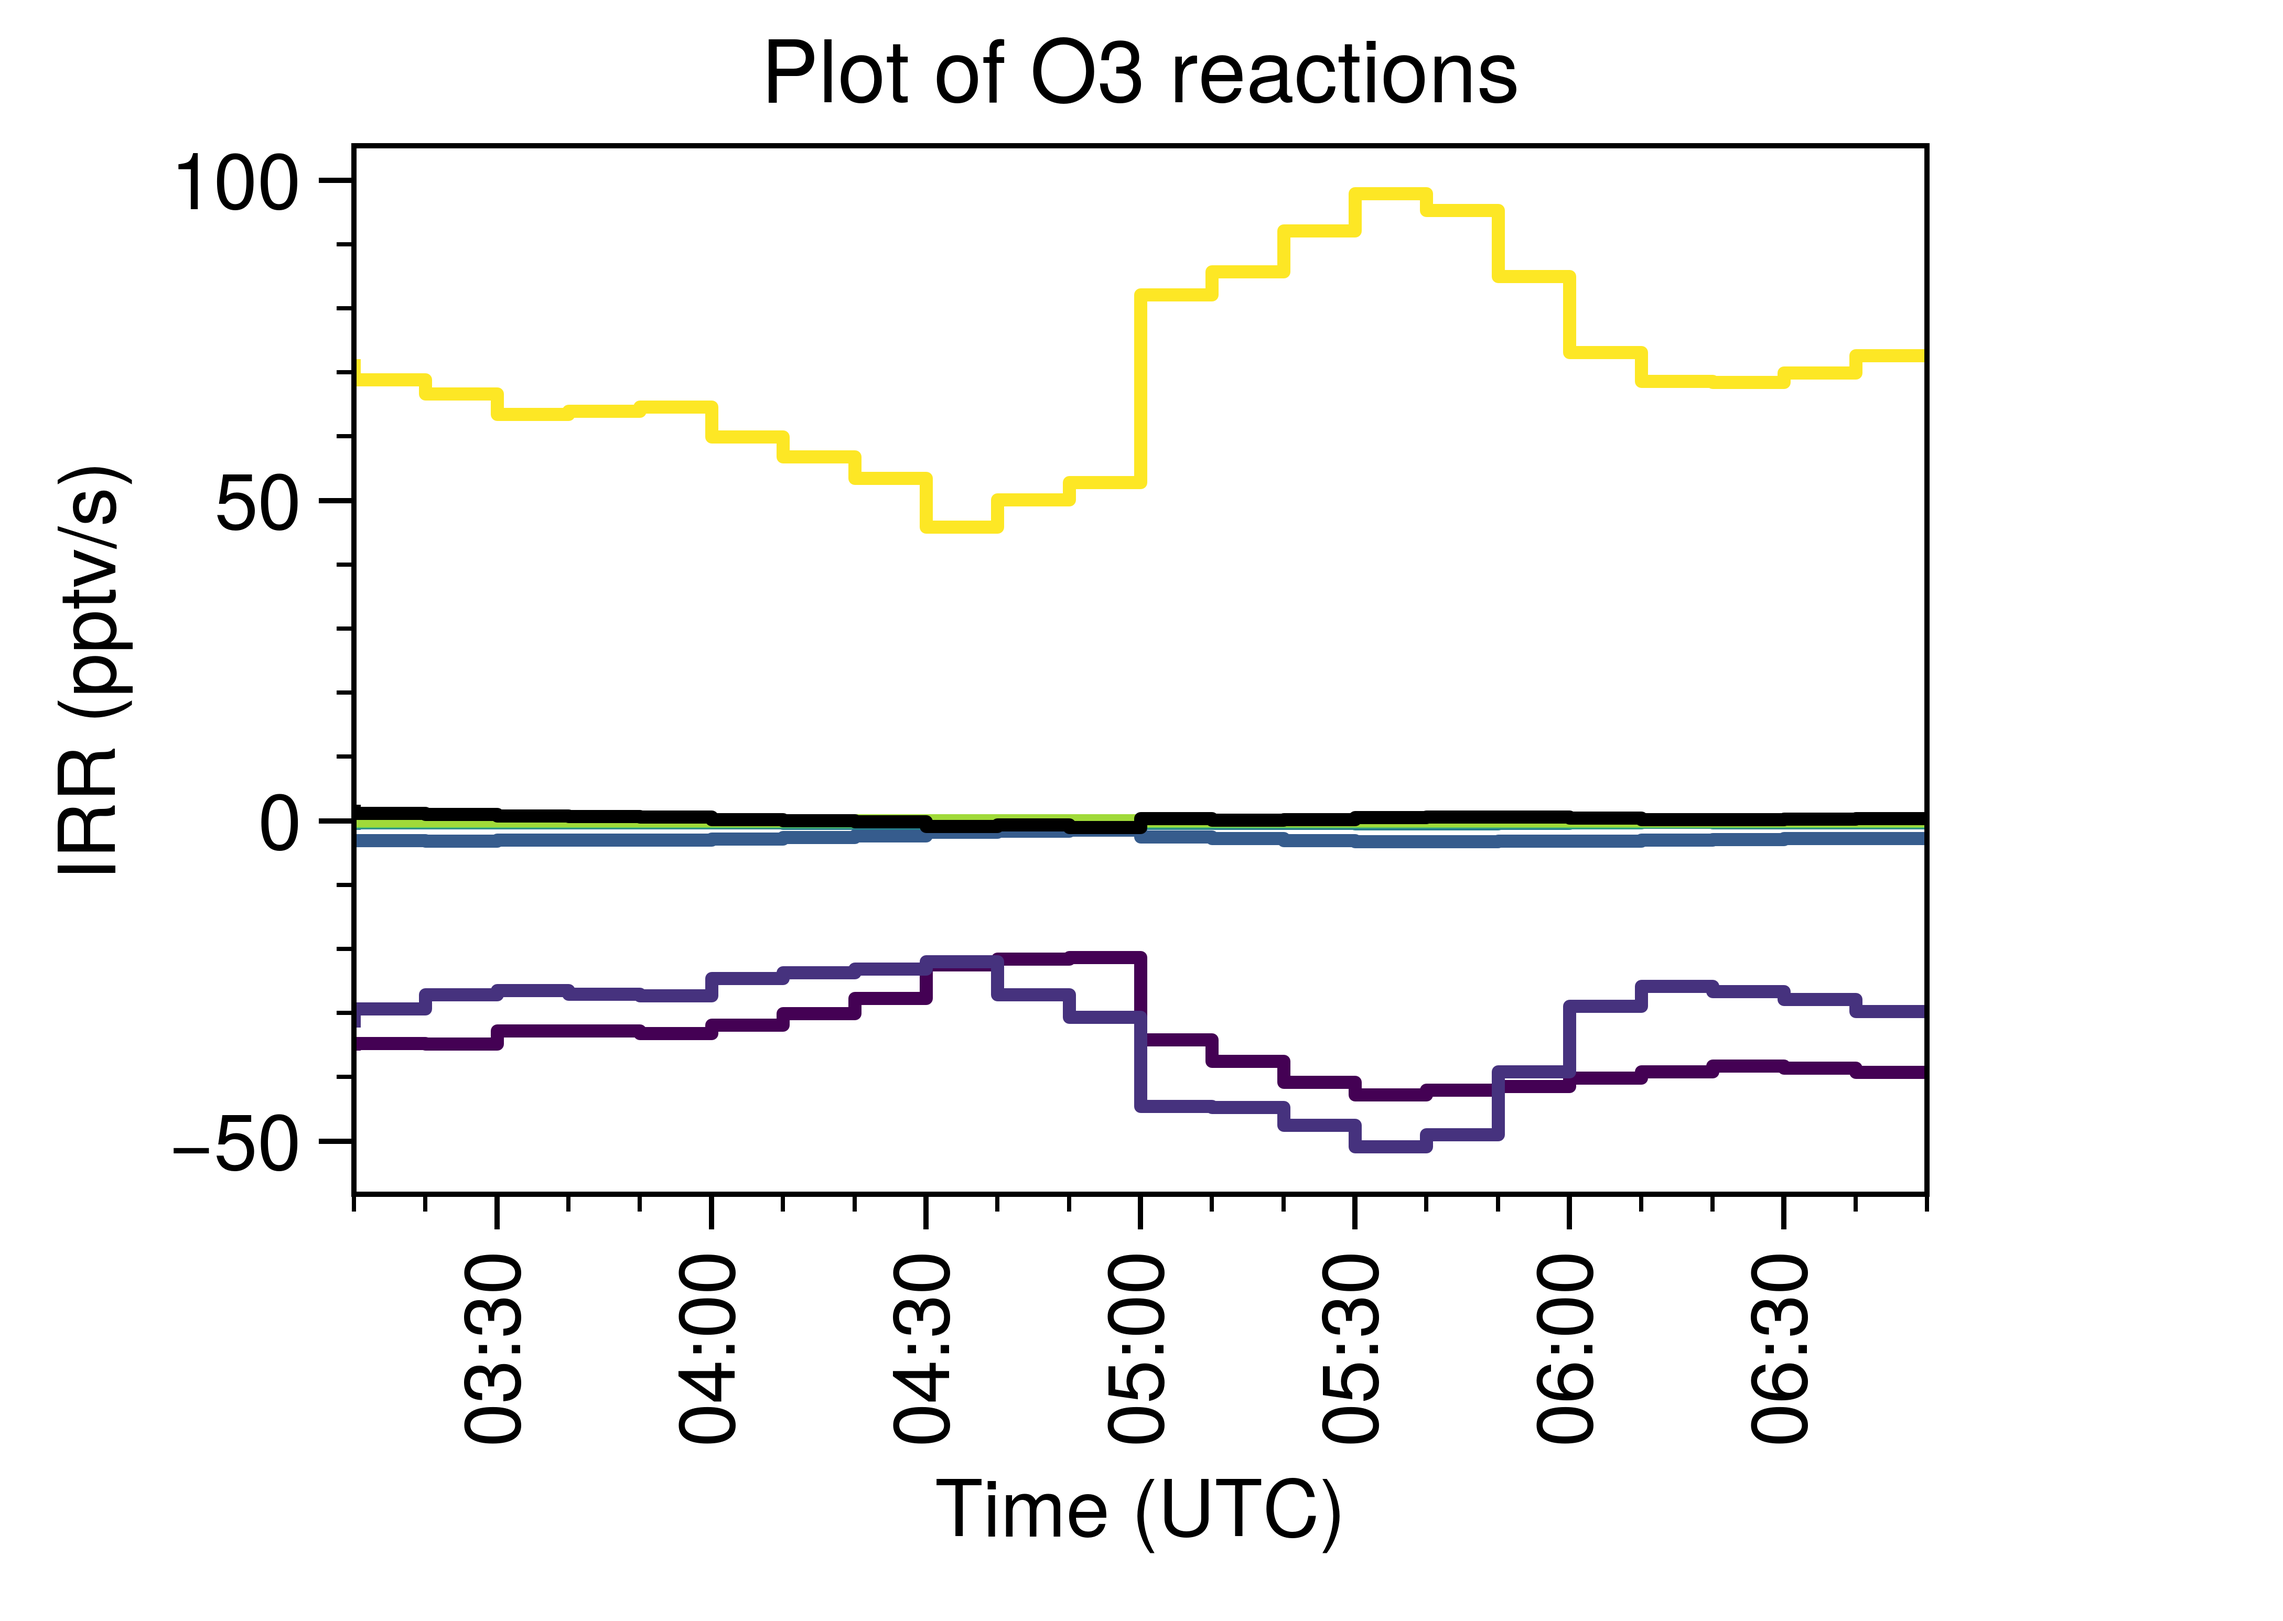
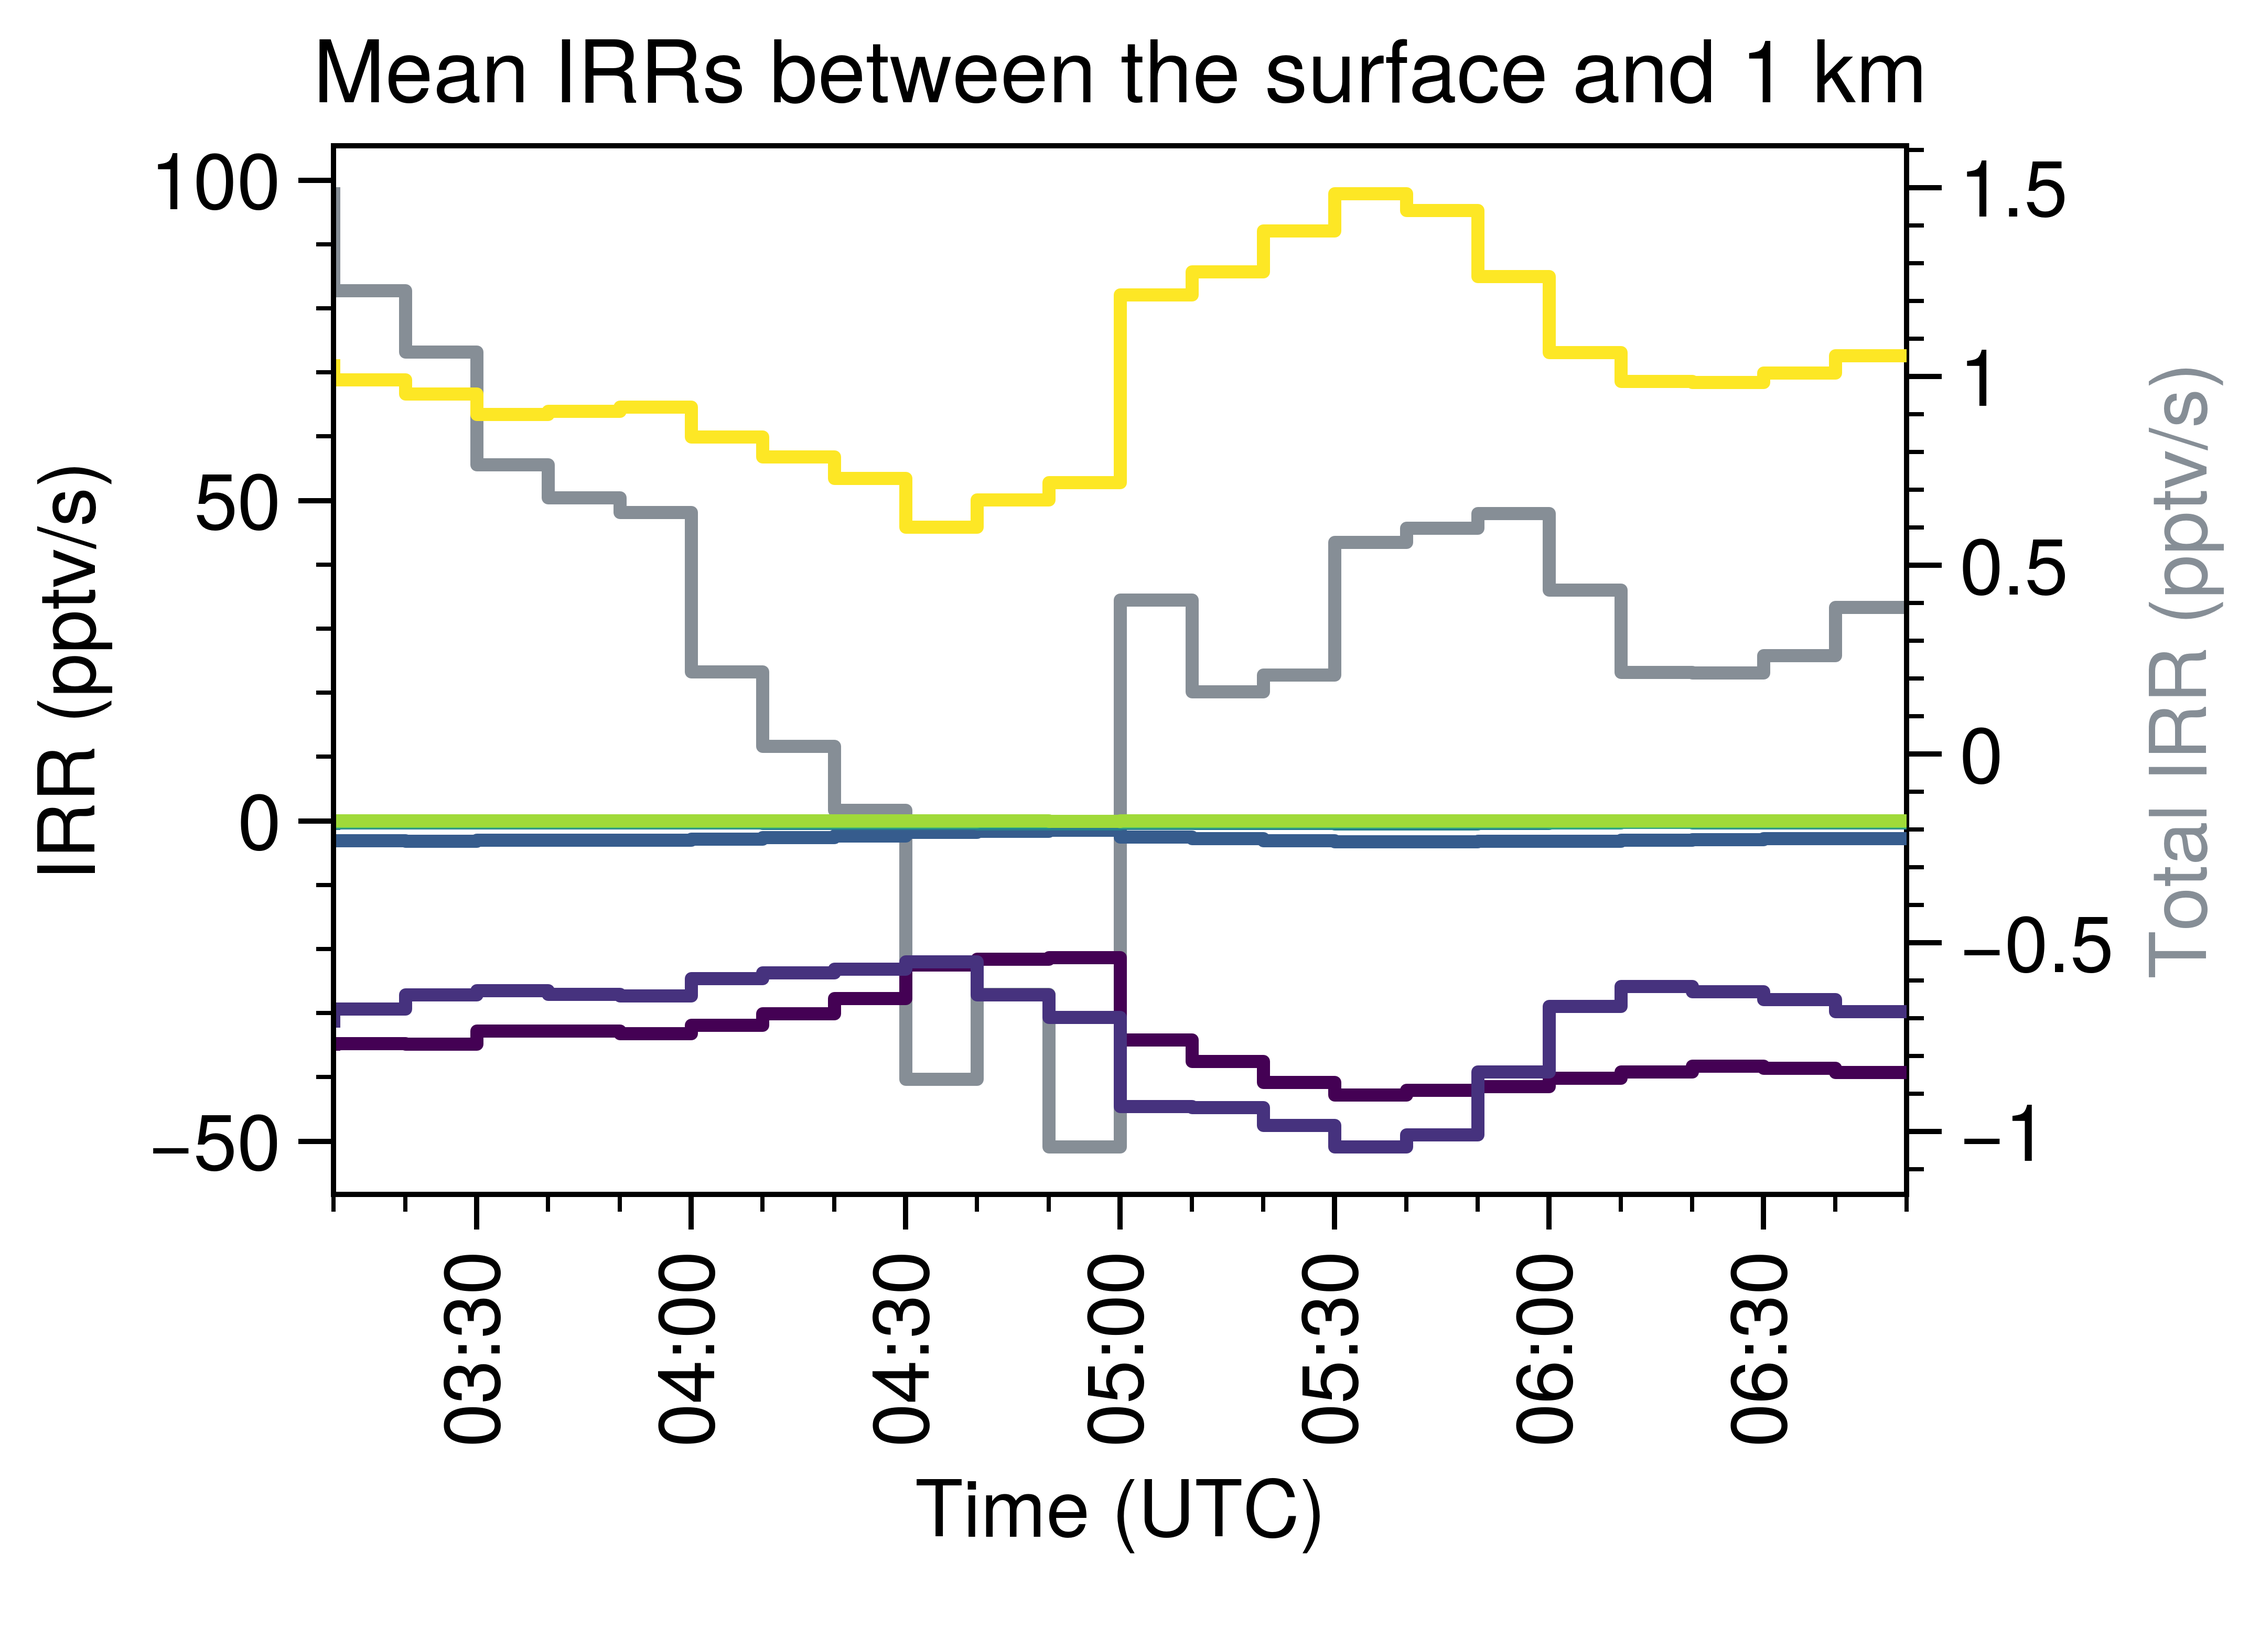
Update post

diff --git a/content/sci-tech/2020-11/irr_wrfchem_2.md b/content/sci-tech/2020-11/irr_wrfchem_2.md
@@ -15,7 +15,9 @@ Output of Integrated Reaction Rates (IRR) is available in WRF-Chem from V4.0 and
 
 This post is the part2 which focuses on **the application of PERMM for the WRF-Chem IRR* data**.
 
-If you wanna learn the basic usage of PERMM, please check the [part1](https://dreambooker.site/2020/11/30/Integrated-Reaction-Rates-Part1/).
+If you wanna learn the basic usage of PERMM, please check [part1](https://dreambooker.site/2020/11/30/Integrated-Reaction-Rates-Part1/).
+
+If you wanna define your own mechanism file, please check [part3](https://dreambooker.site/2020/12/02/Integrated-Reaction-Rates-Part3/).
 
 ## Reactions related to O3
 
@@ -34,7 +36,7 @@ $ python -m permm -i --mechanism mozart_wrfchem
 
 # all reaction names related to O3 (either as reactants or products)
 >>> find_rxns(reactants=O3, products=O3, logical_and=False)
-['C2H4_O3_IRR', 'C3H6_O3_IRR', 'CH3CO3_HO2_IRR', 'HO2_O3_IRR', 'ISOP_O3_IRR', 'MACR_O3_IRR', 'MCO3_HO2_IRR', 'MVK_O3_IRR', 'NO3_HV_IRR', 'O3_HV_IRR', 'O3_HV_a_IRR', 'O3_NO2_IRR', 'O3_NO_IRR', 'OH_O3_IRR', 'O_M_IRR', 'O_O3_IRR']
+['C10H16_O3_IRR', 'C2H4_O3_IRR', 'C3H6_O3_IRR', 'CH3CO3_HO2_IRR', 'HO2_O3_IRR', 'ISOP_O3_IRR', 'MACR_O3_IRR', 'MCO3_HO2_IRR', 'MVK_O3_IRR', 'NO3_HV_IRR', 'O3_HV_IRR', 'O3_HV_a_IRR', 'O3_NO2_IRR', 'O3_NO_IRR', 'OH_O3_IRR', 'O_M_IRR', 'O_O3_IRR']
 
 # print all reactions that create O3
 >>> print_rxns(products=O3)
@@ -43,12 +45,12 @@ MACR_O3_IRR 1.0*MACR + 1.0*O3 ->[k] 0.8*CH3COCHO + 0.7*CH2O + 0.275*HO2 + 0.215*
 MVK_O3_IRR 1.0*MVK + 1.0*O3 ->[k] 0.95*CH3COCHO + 0.8*CH2O + 0.2*O3 + 0.08*OH + 0.06*HO2 + 0.05*CO + 0.04*CH3CHO
 CH3CO3_HO2_IRR 1.0*CH3CO3 + 1.0*HO2 ->[k] 0.75*CH3COOOH + 0.25*O3 + 0.25*CH3COOH
 MCO3_HO2_IRR 1.0*HO2 + 1.0*MCO3 ->[k] 0.75*CH3COOOH + 0.25*O3 + 0.25*CH3COOH
-NO3_HV_IRR 1.0*NO3 ->[j] 0.89*O3 + 0.89*NO2 + 0.11*NO
+NO3_HV_IRR 1.0*NO3 ->[j] 0.89*O3 + 0.89*NO2
 O_M_IRR 1.0*M + 1.0*O ->[k] 1.0*O3
 
 # print net reaction
 >>> print_net_rxn(products=O3)
-3*O3 + 2*HO2 + 1*CH3CO3 + 1*ISOP + 1*M + 1*MACR + 1*MCO3 + 1*MVK + 1*NO3 + 1*O ->[n] 2.89*O3 + 2.1*CH2O + 1.75*CH3COCHO + 1.5*CH3COOOH + 0.89*NO2 + 0.7*CH3COOH + 0.565*OH + 0.55*CO + 0.4*MACR + 0.395*HO2 + 0.2*MVK + 0.2*MCO3 + 0.11*NO + 0.07*C3H6 + 0.04*CH3CHO
+3*O3 + 2*HO2 + 1*CH3CO3 + 1*ISOP + 1*M + 1*MACR + 1*MCO3 + 1*MVK + 1*NO3 + 1*O ->[n] 2.89*O3 + 2.1*CH2O + 1.75*CH3COCHO + 1.5*CH3COOOH + 0.89*NO2 + 0.7*CH3COOH + 0.565*OH + 0.55*CO + 0.4*MACR + 0.395*HO2 + 0.2*MVK + 0.2*MCO3 + 0.07*C3H6 + 0.04*CH3CHO
 ```
 
 ## IRRs
@@ -71,12 +73,12 @@ irr_dir = '/WORK/nuist_chenq_2/xin/data/history/NJ/chem/20190725/lfr_lnox_waccm2
 irr_file = sorted(glob(irr_dir+'irr/IRR_DIAG_d03_2019-07-25_0[3-6]*'))
 wrfout_file = irr_file[0].replace('irr', 'wrfout').replace('IRR_DIAG', 'wrfout')
 
-reactions = ['C2H4_O3_IRR', 'C3H6_O3_IRR', 'CH3CO3_HO2_IRR', 'HO2_O3_IRR', 'ISOP_O3_IRR', 'MACR_O3_IRR', 'MCO3_HO2_IRR', 'MVK_O3_IRR', 'NO3_HV_IRR', 'O3_HV_IRR', 'O3_HV_a_IRR', 'O3_NO2_IRR', 'O3_NO_IRR', 'OH_O3_IRR', 'O_M_IRR', 'O_O3_IRR']
+reactions = ['C10H16_O3_IRR', 'C2H4_O3_IRR', 'C3H6_O3_IRR', 'CH3CO3_HO2_IRR', 'HO2_O3_IRR', 'ISOP_O3_IRR', 'MACR_O3_IRR', 'MCO3_HO2_IRR', 'MVK_O3_IRR', 'NO3_HV_IRR', 'O3_HV_IRR', 'O3_HV_a_IRR', 'O3_NO2_IRR', 'O3_NO_IRR', 'OH_O3_IRR', 'O_M_IRR', 'O_O3_IRR']
 
 # set the region and height range
 crop_region = [118.98, 119.13, 31.9, 32]
-bottom = 0 #8 # km
-top = 1 #12 # km
+bottom = 0 # km
+top = 1 # km
 
 # open irr and wrfout data
 ds_irr = xr.open_mfdataset(irr_file, combine='nested', concat_dim='Time')
@@ -144,10 +146,10 @@ This is the overview of combined IRR netcdf file by`xarray`:
 >>> ds = xr.open_dataset('test.wrfchem.nc')
 >>> ds
 <xarray.Dataset>
-Dimensions:  (RXN: 16, Time: 23)
+Dimensions:  (RXN: 17, Time: 23)
 Coordinates:
   * Time     (Time) datetime64[ns] 2019-07-25T03:10:00 ... 2019-07-25T06:50:00
-  * RXN      (RXN) object 'C2H4_O3_IRR' 'C3H6_O3_IRR' ... 'O_M_IRR' 'O_O3_IRR'
+  * RXN      (RXN) object 'C10H16_O3_IRR' 'C2H4_O3_IRR' ... 'O_M_IRR' 'O_O3_IRR'
 Data variables:
     IRR      (Time, RXN) float32 ...
 ```
@@ -181,10 +183,9 @@ reactant_names = find_rxns(reactants=O3)
 ds = xr.open_dataset('./test.wrfchem.nc')
 da = ds.sel(RXN=reaction_names)['IRR']
 
-# set the IRR to negative if O3 is the reactant
-for rxn in da.RXN.values:
-    if rxn in reactant_names:
-        da.loc[dict(RXN=rxn)] *= -1
+# multiple the irr by net coefficient
+coefficient = [eq['O3'].base.item()  for eq in reaction_eqs]
+da *= coefficient
 
 # we only want to plot the large contributions
 # so, sorting the integrated IRR by absolute vlalues and picking the 8 of them for plot
@@ -215,16 +216,23 @@ for i in range(irr_subset.sizes['RXN']):
     lines.append(line)
 
 # plot the total IRR
-total_line = axs.step(da.sum(dim='RXN'), where='pre', label='Total Chem', color='k')
+twin_ax = axs.alty(ycolor='gray6')
+total_irr = da.sum(dim='RXN').rename('Total IRR')
+total_irr.attrs['units'] = da.attrs['units']
+total_line = twin_ax.step(total_irr, where='pre', label='Total IRR', color='gray6')
+twin_ax.format(grid=False)
 
+# set axis
 axs.format(xlabel='Time (UTC)',
+           ylabel=f'IRR ({da.attrs["units"]})',
            xlim=(irr_subset.Time.values[0], irr_subset.Time.values[-1]),
            xlocator=('minute', range(0, 60, 30)),
            xminorlocator=('minute', range(0, 60, 10)),
            xformatter='%H:%M',
-           title='Plot of O3 reactions',
+           title='Mean IRRs between the surface and 1 km',
            grid=False,
            )
+
 
 fig.legend(lines.append(total_line), loc='b', ncols=2)
 fig.savefig('irr_o3_wrfchem.png')
@@ -239,6 +247,7 @@ Note that the simulation is for one convection case, so the decrease of O3 at th
 
 ## Version control
 
-| Version | Action | Time       |
-| ------- | ------ | ---------- |
-| 1.0     | Init   | 2020-12-01 |
+| Version | Action              | Time       |
+| ------- | ------------------- | ---------- |
+| 1.0     | Init                | 2020-12-01 |
+| 1.1     | Update coefficients | 2020-12-02 |

diff --git a/content/sci-tech/2020-11/irr_wrfchem_1.md b/content/sci-tech/2020-11/irr_wrfchem_1.md
@@ -19,6 +19,8 @@ This post is the part1 which focuses on **the basic usage of PERMM for the offic
 
 If you wanna learn the application for WRF-Chem, please check [part2](https://dreambooker.site/2020/12/01/Integrated-Reaction-Rates-Part2/).
 
+If you wanna define your own mechanism file, please check [part3](https://dreambooker.site/2020/12/02/Integrated-Reaction-Rates-Part3/).
+
 ## Installation
 
 It's better to install the latest version of PERMM from the [official github repository](https://github.com/barronh/permm).
@@ -215,10 +217,9 @@ ds = xr.open_dataset('./test.mrg.nc')
 # assign the coordinates for index
 da = ds.assign_coords(RXN=['RXN_'+i.zfill(2) for i in ((ds.RXN)+1).values.astype('str')]).sel(RXN=reaction_names)['IRR']
 
-# set the IRR to negative if O3 is the reactant
-for rxn in da.RXN.values:
-    if rxn in reactant_names:
-        da.loc[dict(RXN=rxn)] *= -1
+# multiple the irr by net coefficient
+coefficient = [eq['O3'].base.item() for eq in reaction_eqs]
+da *= coefficient
 
 # we only want to plot the large contributions
 # so, sorting the integrated IRR by absolute vlalues and picking the 8 of them for plot
@@ -259,6 +260,30 @@ The result shown below is as same as the former one created using the official p
 
 ![ozone_reactions](/images/sci-tech/2020-11/ozone_reactions_2.png)
 
+It's better to make sure the total chem are correctly calculated.
+
+The official time series of total chem of O3:
+
+```
+>>> make_net_rxn(reactants=O3, products=O3, logical_and=False)['O3']
+Stoic([-4.075653   1.7998352  5.7559814 10.641052  10.435608  12.903931
+  9.884674   7.516403   5.9432373  1.7922287 -1.0577393], role = 'u')
+```
+
+The calculated one:
+
+```
+<xarray.DataArray 'IRR' (TSTEP: 11)>
+array([-4.0756407,  1.799851 ,  5.7559466, 10.641057 , 10.435598 ,
+       12.90391  ,  9.884662 ,  7.5164156,  5.9432254,  1.7922215,
+       -1.0577295], dtype=float32)
+Dimensions without coordinates: TSTEP
+```
+
+It's almost same ... Maybe that's the problem of float accuracy?
+
+---
+
 Actually, I have no experience of CAMX and can't understand why the IRR value at each output time stands for the IRR between that time and **the next one**.
 
 For WRF-Chem, IRRs are saved as **integrated values**. We need to calculate the **difference** and use **`pre`** instead of `post` in the `step` function.
@@ -272,3 +297,4 @@ Note that we can present the exact values in the terminal by `print(irr_subset.t
 | ------- | -------------------- | ---------- |
 | 1.0     | Init                 | 2020-11-30 |
 | 1.1     | Update plot function | 2020-12-01 |
+| 1.2     | Update coefficients  | 2020-12-02 |
